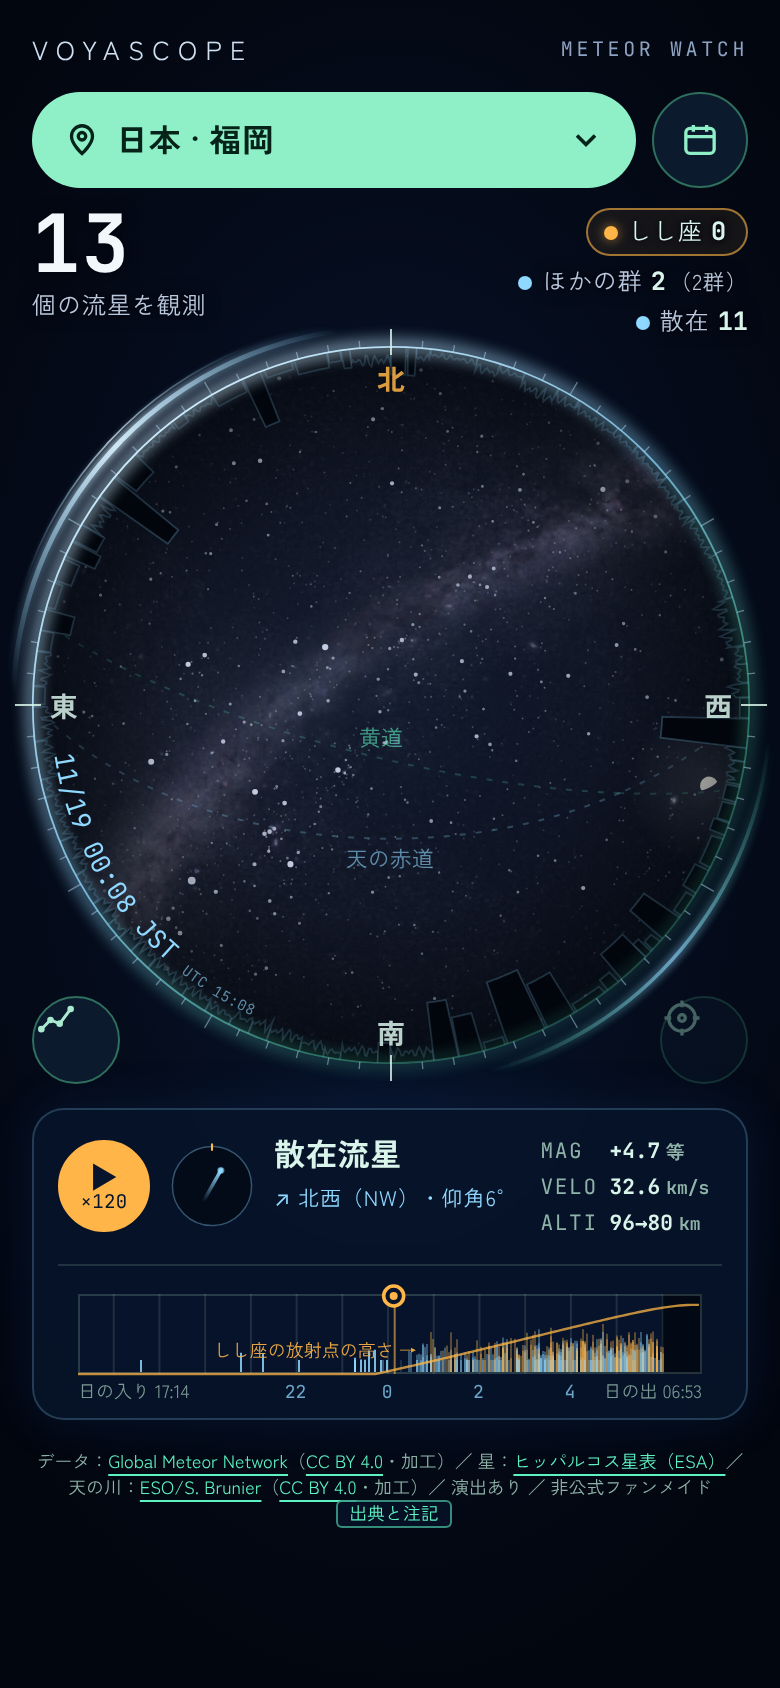
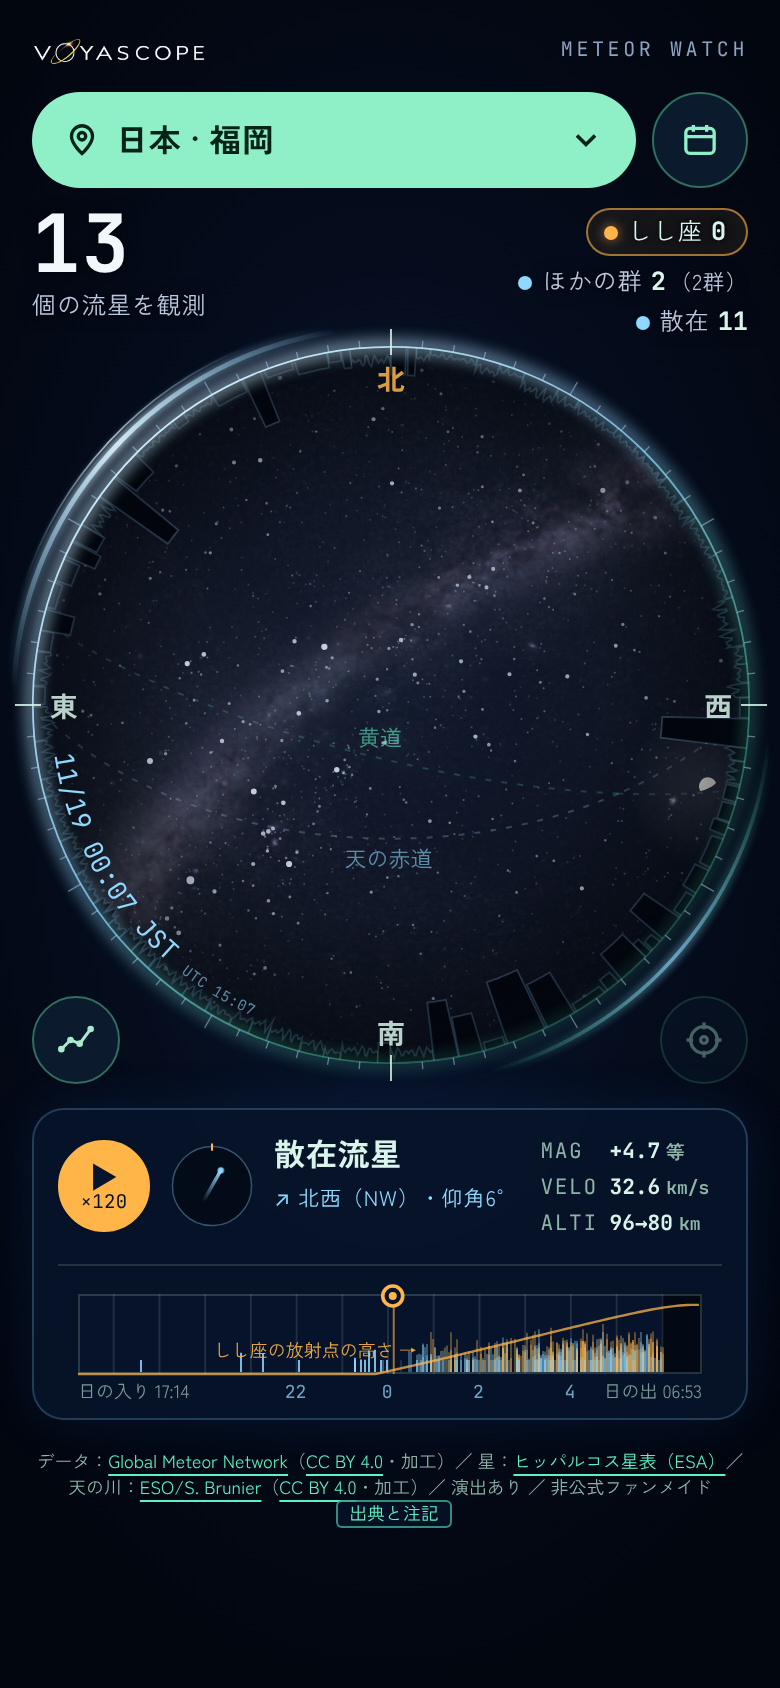
流星を眺める（見上げる）：ロゴを本体の画像に戻す・四隅のボタンのアイコンが左上にずれていたのを直す
- ロゴは VOYASCOPE 本体と同じ logo-600.webp（スマホ 15px・PC 18px の高さ。押せる高さ 44px）（オーナー）
- 原因：.dome svg（空の上の輪の図）の position: absolute; inset: 0 がボタンのアイコンにもかかっていた。アイコンだけ打ち消した

Claude-Session: https://claude.ai/code/session_01XQ4UBwH93kGsVUdewGHxjL

diff --git a/web/meteors/index.html b/web/meteors/index.html
@@ -255,8 +255,9 @@
   /* ===== 改修（2026-11-28 オーナーの改修案 Main.dc.html）：上部の2行・投影窓を最大化・四隅に統計とボタン ===== */
   .top { display: flex; flex-direction: column; align-items: stretch; gap: 10px; }
   .brandbar { height: 22px; display: flex; align-items: center; gap: 12px; }
-  .logo { display: inline-block; font-family: var(--font-body); font-size: 13px; line-height: 22px; font-weight: 400; letter-spacing: 0.32em; color: #cfe0f2; text-decoration: none;
-    padding: 11px 0; margin: -11px 0; }
+  /* ロゴは VOYASCOPE 本体と同じ画像（2026-11-28 オーナー）。押せる高さは 44px（行は 22px のまま） */
+  .logo { display: flex; align-items: center; height: 44px; margin: -11px 0; }
+  .logo img { display: block; height: 15px; width: auto; }
   /* 「出典と注記」：字は小さいまま、押せる範囲を 44px に広げる */
   .credit button#srcBtn { position: relative; }
   .credit button#srcBtn::after { content: ""; position: absolute; left: 50%; top: 50%; width: max(100%, 64px); height: 44px; transform: translate(-50%, -50%); } /* 押せる高さ 44px（字の行は 22px のまま） */
@@ -281,6 +282,9 @@
   #viewReset[aria-disabled="true"] { opacity: 0.4; cursor: default; }
   #constBtn svg circle { fill: currentColor; stroke: none; }
   #constBtn svg { width: 22px; height: 22px; stroke-width: 1.6; }
+  /* .dome svg（空の上の輪の図）の「左上に広げる」指定がボタンのアイコンにかからないように（アイコンが左上にずれていた） */
+  .dome .corners .icon-btn svg { position: static; inset: auto; display: block; width: 20px; height: 20px; }
+  .dome .corners #constBtn svg { width: 22px; height: 22px; }
   .corners { position: absolute; z-index: 3; pointer-events: none; }
   .corners .icon-btn { position: absolute; bottom: 0; width: 44px; height: 44px; pointer-events: auto; color: #a9e9cf; }
   #constBtn { left: 0; } #viewReset { right: 0; }
@@ -290,6 +294,7 @@
     .top { flex-direction: row; align-items: center; gap: 24px; }
     .brandbar { flex: 1 1 auto; }
     .ctl { flex: none; width: 460px; }
+    .logo img { height: 18px; }
   }
   @media (max-width: 899px), (max-aspect-ratio: 1/1) {
     /* スマホ：縦に流す（ドームの大きさは画面の幅で決める。アドレスバーの出入りで変わらない）。低い画面ではページを送る */
@@ -321,7 +326,7 @@
   <!-- 上部：ロゴの細い行 ＋ 操作の行（場所チップ・カレンダー）。2026-11-28 オーナーの改修案（Main.dc.html） -->
   <header class="top">
     <div class="brandbar">
-      <a class="logo" href="../" aria-label="VOYASCOPE のトップへ">VOYASCOPE</a>
+      <a class="logo" href="../" aria-label="VOYASCOPE のトップへ"><img src="../assets/brand/logo-600.webp" alt="VOYASCOPE" width="600" height="104"></a>
       <span class="brand-sub">流星を眺める｜見上げる ・ 試験版</span>
       <span class="mw mono">METEOR WATCH</span>
     </div>

diff --git a/docs/changelog.md b/docs/changelog.md
@@ -8,7 +8,8 @@
 ## 2026-11-28
 
 - **流星を眺める（見上げる）：UI改修 段階1「配置の変更」**（オーナーの改修案 Main.dc.html・仕様PDF。改修内容の1と4）
-  - 上部を2行に：① ロゴの細い行（高さ22px。左に文字の「VOYASCOPE」13px・字間0.32em、右に「METEOR WATCH」等幅10px。PC だけ「流星を眺める｜見上げる ・ 試験版」も）② 操作の行（場所チップ＝横いっぱい・高さ48px・#8FF0C8、表示は「国・地域 · 街」と下向き矢印／カレンダーの丸いボタン48px・枠 #2F6F5D）。ロゴの画像はやめて文字に
+  - 上部を2行に：① ロゴの細い行（高さ22px。左に VOYASCOPE 本体と同じロゴの画像〈スマホ 15px・PC 18px の高さ。オーナー：本体のロゴに〉、右に「METEOR WATCH」等幅10px。PC だけ「流星を眺める｜見上げる ・ 試験版」も）② 操作の行（場所チップ＝横いっぱい・高さ48px・#8FF0C8、表示は「国・地域 · 街」と下向き矢印／カレンダーの丸いボタン48px・枠 #2F6F5D）
+  - 四隅のボタンのアイコンが左上にずれていた（オーナー）のを直した。原因：空の上の輪の図のための `.dome svg { position: absolute; inset: 0 }` がアイコンにもかかっていた。直したあと、アイコンの中心とボタンの中心は 0.1px 以内（390×844・390×664・1440×900）
   - 場所チップは、段階2のシートができるまで、1つの select（国・地域ごとのまとまりで街）を透明にして重ねている（場所は今までどおり選べる）。カレンダーは見た目だけ（準備中・aria-disabled）
   - スマホ：ドームの直径（光の輪の外径）を「画面の幅 − 10px」に（390幅で 380px・輪の半径 179px）。大きさは画面の幅で決め、高さでは決めない（アドレスバーの出入りで変わらない）。高さが足りない画面（タブレット・横向き）だけ抑える。前の「上の帯と計器のあいだに 4：5 で置く」はやめ、縦に流してページを送れるようにした
   - 統計はドームの上の行に：左に総数（40px）と「個の流星を観測」、右に しし座・ほかの群・散在 の内訳（縦並び・右寄せ）。左下に星座線のボタン（44px・見た目だけ）、右下に「真上に戻す」を照準アイコンのボタン（44px。真上を見ているときは押せない見た目）。四隅のボタンは輪と重ならない（輪の外径から 10px 以上離れる）
